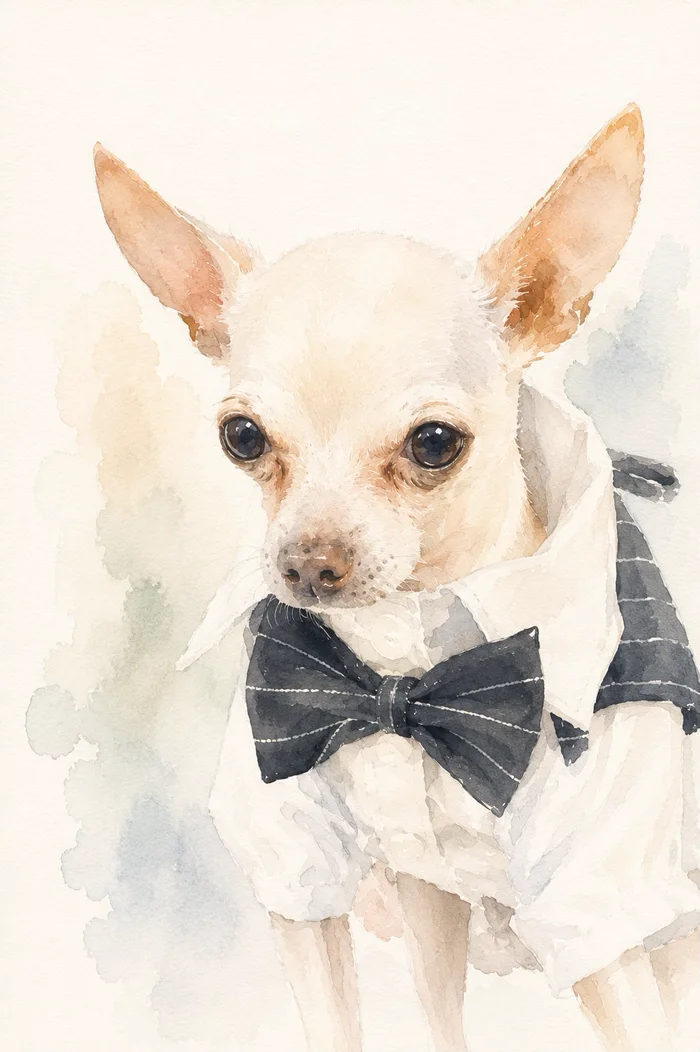
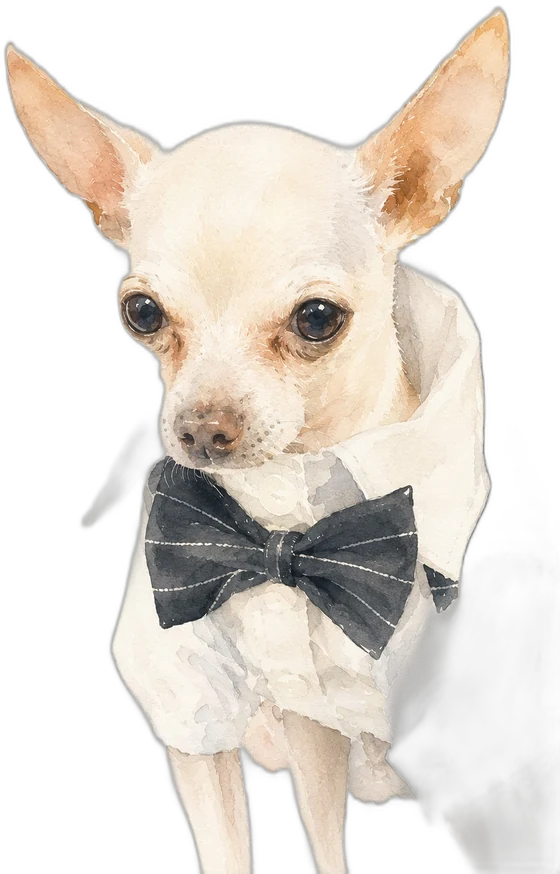
feat: chihuahua recortado flotante, venues en marco arco botanico, pareja bailando line-art en vestimenta

diff --git a/index.html b/index.html
@@ -938,6 +938,25 @@ h2 em{font-family:var(--script)!important;font-style:normal!important;color:var(
 .date-statement .date-lbl{color:var(--ink-soft)!important}
 .date-statement .date-block + .date-block::before{color:var(--gold)}
 .date-statement .date-numbers{margin-top:34px}
+
+/* ---- Motivo line-art sobre títulos (estilo referencia) ---- */
+.section-motif{display:block;margin:0 auto 4px;color:var(--gold-deep);opacity:.92}
+.section-motif.dance{width:clamp(108px,16vw,148px);height:auto}
+/* ---- Chihuahua recortado flotante (como el perrito de la referencia) ---- */
+.bienv-dog{width:clamp(150px,26vw,210px)!important;filter:drop-shadow(0 16px 20px rgba(84,90,57,.14))!important}
+.bienv-mono{font-size:clamp(40px,7vw,64px)!important;opacity:.85}
+/* ---- Marco de venue tipo referencia (arco + marco sage + botánica) ---- */
+.venue-frame{position:relative;width:100%;max-width:296px;margin:0 auto 26px;padding:13px 13px 15px;
+  background:linear-gradient(160deg,#838963,#646a45);background-blend-mode:soft-light;background-image:var(--grain);
+  border-radius:8px;box-shadow:inset 0 0 0 1px rgba(255,255,255,.12),inset 0 0 16px rgba(0,0,0,.20),0 12px 28px rgba(84,90,57,.26)}
+.venue-frame::after{content:"";position:absolute;inset:8px;border:1px solid rgba(231,200,115,.5);border-radius:132px 132px 5px 5px;pointer-events:none;z-index:3}
+.venue-arch{position:relative;border-radius:128px 128px 4px 4px;overflow:hidden;background:var(--paper);aspect-ratio:1/1.18}
+.venue-arch img{width:100%;height:100%;object-fit:cover;display:block;filter:url(#watercolor) saturate(.62) contrast(.94) sepia(.14) brightness(1.05)}
+.venue-sprig{position:absolute;width:34px;height:34px;color:rgba(231,200,115,.75);z-index:4}
+.venue-sprig.tl{top:3px;left:3px}
+.venue-sprig.tr{top:3px;right:3px;transform:scaleX(-1)}
+.venue-sprig.bl{bottom:3px;left:3px;transform:scaleY(-1)}
+.venue-sprig.br{bottom:3px;right:3px;transform:scale(-1,-1)}
 </style>
 </head>
 <body>
@@ -949,6 +968,15 @@ h2 em{font-family:var(--script)!important;font-style:normal!important;color:var(
     <feDisplacementMap in="SourceGraphic" in2="noise" scale="9" xChannelSelector="R" yChannelSelector="G" result="disp"/>
     <feGaussianBlur in="disp" stdDeviation="0.4"/>
   </filter>
+  <symbol id="sprig" viewBox="0 0 40 40">
+    <g fill="none" stroke="currentColor" stroke-width="1.1" stroke-linecap="round">
+      <path d="M5 5 C13 9 21 17 29 31"/>
+      <path d="M9 7 q4 -5 10 -4 q-2 6 -10 4Z" fill="currentColor" stroke="none" opacity=".85"/>
+      <path d="M12 12 q-5 -2 -8 3 q6 2 8 -3Z" fill="currentColor" stroke="none" opacity=".85"/>
+      <path d="M17 18 q5 -2 9 2 q-5 3 -9 -2Z" fill="currentColor" stroke="none" opacity=".85"/>
+      <path d="M22 24 q-5 -1 -8 4 q6 1 8 -4Z" fill="currentColor" stroke="none" opacity=".85"/>
+    </g>
+  </symbol>
 </svg>
 
 <!-- ENVELOPE OPENING -->
@@ -1136,7 +1164,13 @@ h2 em{font-family:var(--script)!important;font-style:normal!important;color:var(
       <div class="locs-grid">
 
         <article class="loc-card" data-tilt>
-          <div class="wc-img loc-photo"><img src="iglesia.webp" alt="Santuario de San Francisco de Asís en acuarela" loading="lazy"></div>
+          <div class="venue-frame">
+            <div class="venue-arch"><img src="iglesia.webp" alt="Santuario de San Francisco de Asís en acuarela" loading="lazy"></div>
+            <svg class="venue-sprig tl"><use href="#sprig"/></svg>
+            <svg class="venue-sprig tr"><use href="#sprig"/></svg>
+            <svg class="venue-sprig bl"><use href="#sprig"/></svg>
+            <svg class="venue-sprig br"><use href="#sprig"/></svg>
+          </div>
           <div class="loc-type">Ceremonia Religiosa</div>
           <div class="loc-name">Santuario de San Francisco de Asís</div>
           <div class="loc-time">5:00 PM</div>
@@ -1145,7 +1179,13 @@ h2 em{font-family:var(--script)!important;font-style:normal!important;color:var(
         </article>
 
         <article class="loc-card" data-tilt>
-          <div class="wc-img loc-photo"><img src="acuarela-salon.webp" alt="Salón Montecielo en acuarela" loading="lazy"></div>
+          <div class="venue-frame">
+            <div class="venue-arch"><img src="acuarela-salon.webp" alt="Salón Montecielo en acuarela" loading="lazy"></div>
+            <svg class="venue-sprig tl"><use href="#sprig"/></svg>
+            <svg class="venue-sprig tr"><use href="#sprig"/></svg>
+            <svg class="venue-sprig bl"><use href="#sprig"/></svg>
+            <svg class="venue-sprig br"><use href="#sprig"/></svg>
+          </div>
           <div class="loc-type">Recepción</div>
           <div class="loc-name">Jardín &amp; Salón Montecielo</div>
           <div class="loc-time">9:00 PM</div>
@@ -1259,6 +1299,24 @@ h2 em{font-family:var(--script)!important;font-style:normal!important;color:var(
   <!-- DRESS CODE -->
   <section class="section-bg dress">
     <div class="container">
+      <svg class="section-motif dance" viewBox="0 0 200 178" fill="none" stroke="currentColor" stroke-width="1.4" stroke-linecap="round" stroke-linejoin="round" aria-hidden="true">
+        <!-- Caballero -->
+        <circle cx="74" cy="34" r="9.5"/>
+        <path d="M74 44 C72 60 75 76 78 90"/>
+        <path d="M78 90 C76 112 73 130 70 152"/>
+        <path d="M78 90 C86 110 93 130 99 152"/>
+        <path d="M74 56 C90 62 106 60 120 53"/>
+        <!-- Dama -->
+        <circle cx="132" cy="42" r="8.5"/>
+        <path d="M132 50 C129 60 124 70 119 79"/>
+        <path d="M120 53 C112 60 112 71 119 79"/>
+        <path d="M130 50 C146 53 157 45 167 35"/>
+        <!-- Vestido fluido -->
+        <path d="M119 79 C99 94 92 122 106 152 C128 164 158 158 182 150 C162 122 150 94 119 79 Z"/>
+        <path d="M124 86 C116 108 117 132 126 152" opacity=".55"/>
+        <path d="M146 96 C154 118 159 134 158 151" opacity=".55"/>
+        <path d="M134 90 C132 112 135 134 142 152" opacity=".45"/>
+      </svg>
       <div class="eyebrow">Código de vestimenta</div>
       <h2>Elegante <em>Formal</em></h2>
 
